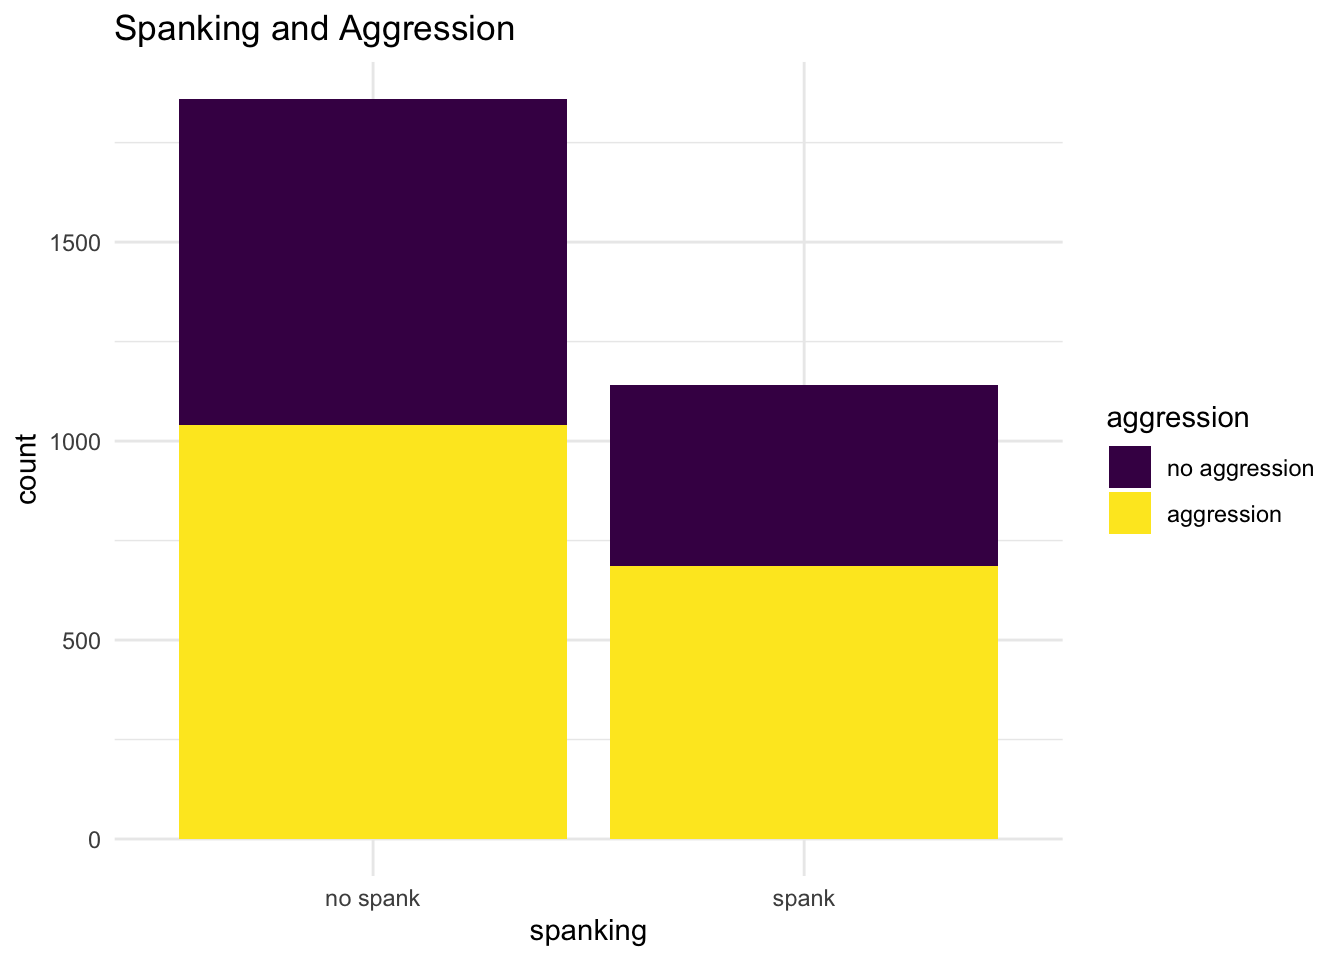
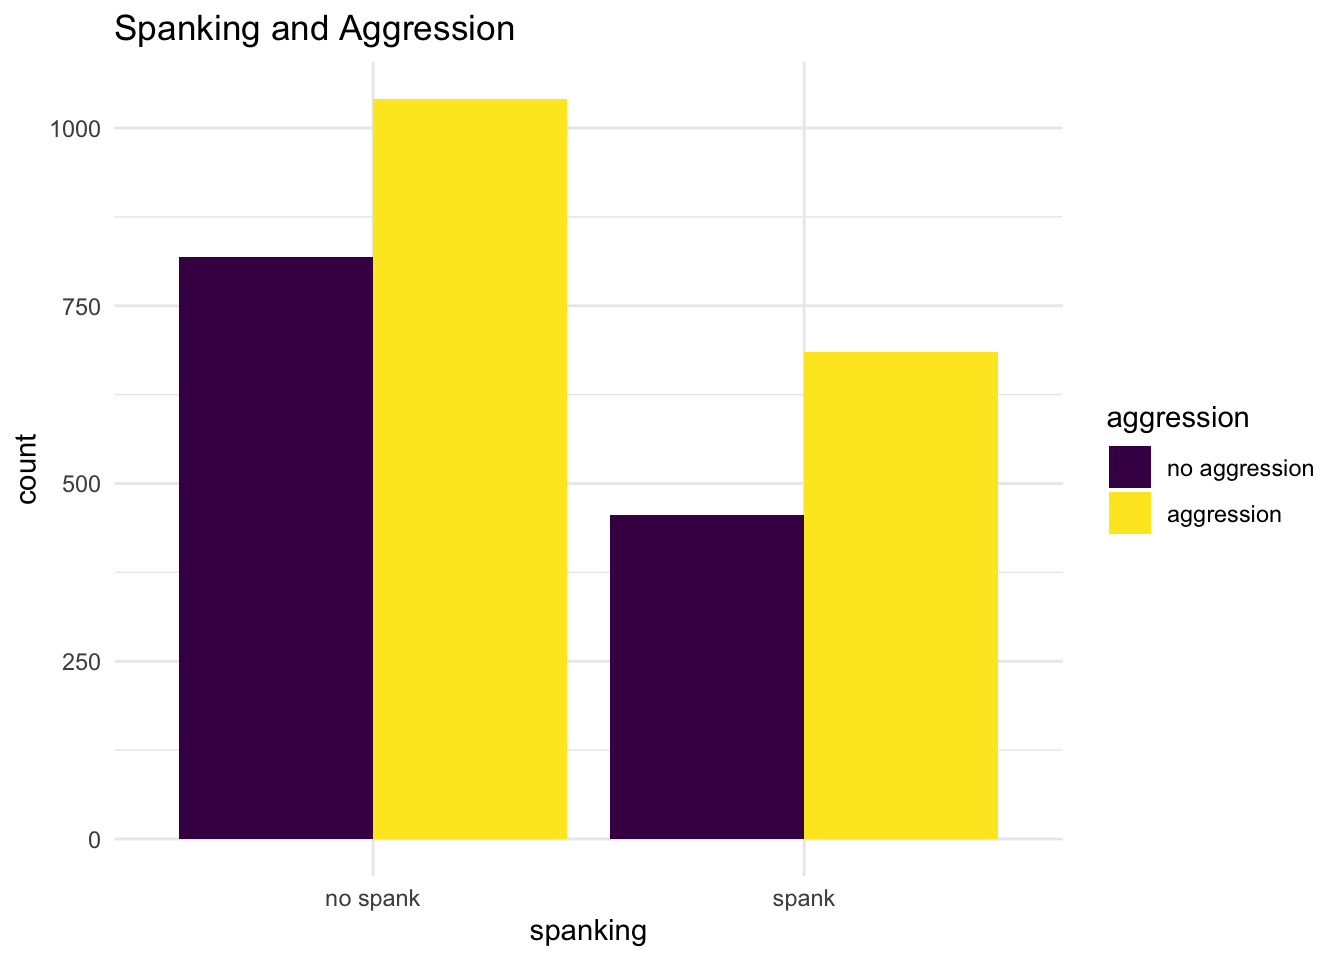
tweaked

diff --git a/docs/index.html b/docs/index.html
@@ -7,7 +7,7 @@
 <meta name="viewport" content="width=device-width, initial-scale=1.0, user-scalable=yes">
 
 <meta name="author" content="Global Families Project Team">
-<meta name="dcterms.date" content="2023-07-05">
+<meta name="dcterms.date" content="2023-07-06">
 
 <title>Global Families Project</title>
 <style>
@@ -81,10 +81,10 @@ ul.task-list li input[type="checkbox"] {
 <meta name="twitter:card" content="summary_large_image">
 <meta name="citation_title" content="Global Families Project">
 <meta name="citation_author" content="Global Families Project Team">
-<meta name="citation_publication_date" content="2023-07-05">
-<meta name="citation_cover_date" content="2023-07-05">
+<meta name="citation_publication_date" content="2023-07-06">
+<meta name="citation_cover_date" content="2023-07-06">
 <meta name="citation_year" content="2023">
-<meta name="citation_online_date" content="2023-07-05">
+<meta name="citation_online_date" content="2023-07-06">
 <meta name="citation_fulltext_html_url" content="https://agrogan1.github.io/globalfamilies/">
 <meta name="citation_language" content="en">
 <meta name="citation_reference" content="citation_title=The climate crisis and violence against children;,citation_author=Jorge Cuartas;,citation_author=Amiya Bhatia;,citation_author=Daniel Carter;,citation_author=Lucie Cluver;,citation_author=Carolina Coll;,citation_author=Catherine E Draper;,citation_author=Elizabeth Donger;,citation_author=Frances Gardner;,citation_author=Hernando Grueso;,citation_author=Bess Herbert;,citation_author=Jamie Lachman;,citation_author=Najat Maalla M’jid;,citation_author=Frederique Seidel;,citation_author=Orla Kelly;,citation_publication_date=2023-07;,citation_cover_date=2023-07;,citation_year=2023;,citation_fulltext_html_url=https://doi.org/10.1016/S2352-4642(23)00137-2;,citation_doi=10.1016/S2352-4642(23)00137-2;,citation_issn=2352-4642;,citation_journal_title=The Lancet Child &amp;amp;amp; Adolescent Health;,citation_publisher=Elsevier;">
@@ -242,7 +242,7 @@ ul.task-list li input[type="checkbox"] {
     <div>
     <div class="quarto-title-meta-heading">Published</div>
     <div class="quarto-title-meta-contents">
-      <p class="date">July 5, 2023</p>
+      <p class="date">July 6, 2023</p>
     </div>
   </div>
   

diff --git a/docs/quick-intro-ggplot2.html b/docs/quick-intro-ggplot2.html
@@ -392,9 +392,9 @@ code span.wa { color: #60a0b0; font-weight: bold; font-style: italic; } /* Warni
 </div>
 <div class="cell">
 <div class="sourceCode cell-code" id="cb7"><pre class="sourceCode r code-with-copy"><code class="sourceCode r"><span id="cb7-1"><a href="#cb7-1" aria-hidden="true" tabindex="-1"></a><span class="fu">ggplot</span>(MICSsimulated, <span class="co"># the data I am using</span></span>
-<span id="cb7-2"><a href="#cb7-2" aria-hidden="true" tabindex="-1"></a>       <span class="fu">aes</span>(<span class="at">x =</span> cd1, </span>
-<span id="cb7-3"><a href="#cb7-3" aria-hidden="true" tabindex="-1"></a>           <span class="at">fill =</span> aggression)) <span class="sc">+</span> <span class="co"># the variables I am using</span></span>
-<span id="cb7-4"><a href="#cb7-4" aria-hidden="true" tabindex="-1"></a>  <span class="fu">geom_bar</span>() <span class="sc">+</span> <span class="co"># graph with bars</span></span>
+<span id="cb7-2"><a href="#cb7-2" aria-hidden="true" tabindex="-1"></a>       <span class="fu">aes</span>(<span class="at">x =</span> cd1, <span class="co"># x is spanking</span></span>
+<span id="cb7-3"><a href="#cb7-3" aria-hidden="true" tabindex="-1"></a>           <span class="at">fill =</span> aggression)) <span class="sc">+</span> <span class="co"># fill is aggression</span></span>
+<span id="cb7-4"><a href="#cb7-4" aria-hidden="true" tabindex="-1"></a>  <span class="fu">geom_bar</span>(<span class="at">position =</span> <span class="fu">position_dodge</span>()) <span class="sc">+</span> <span class="co"># graph with "dodged" bars</span></span>
 <span id="cb7-5"><a href="#cb7-5" aria-hidden="true" tabindex="-1"></a>  <span class="fu">labs</span>(<span class="at">title =</span> <span class="st">"Spanking and Aggression"</span>, </span>
 <span id="cb7-6"><a href="#cb7-6" aria-hidden="true" tabindex="-1"></a>       <span class="at">x =</span> <span class="st">"spanking"</span>, </span>
 <span id="cb7-7"><a href="#cb7-7" aria-hidden="true" tabindex="-1"></a>       <span class="at">y =</span> <span class="st">"count"</span>) <span class="sc">+</span></span>
